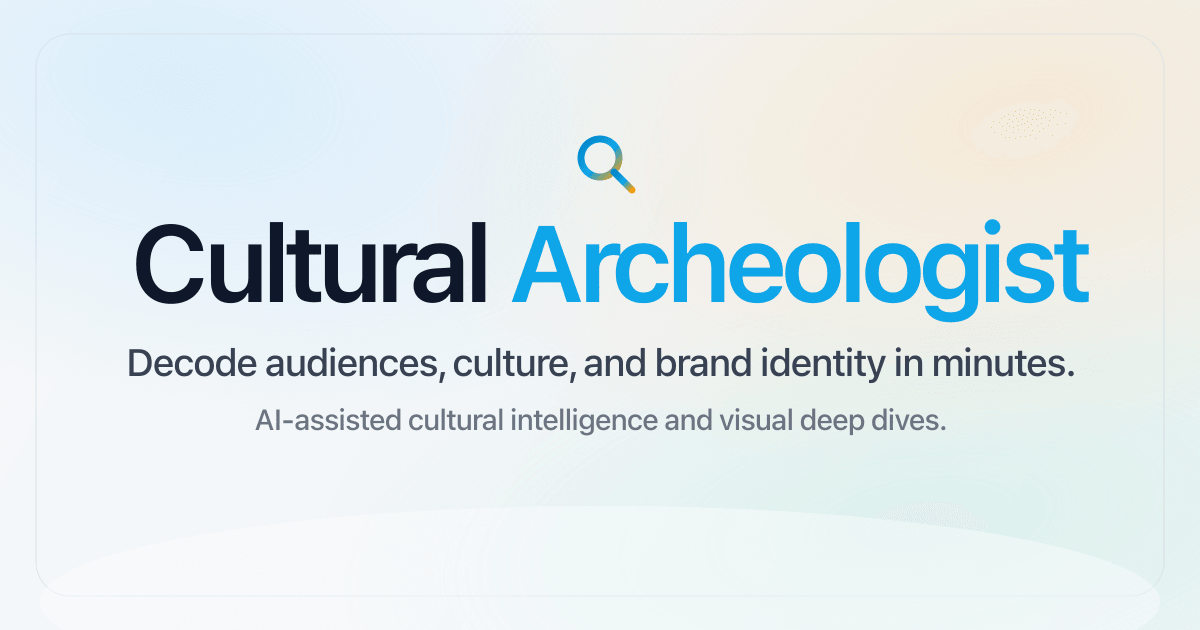
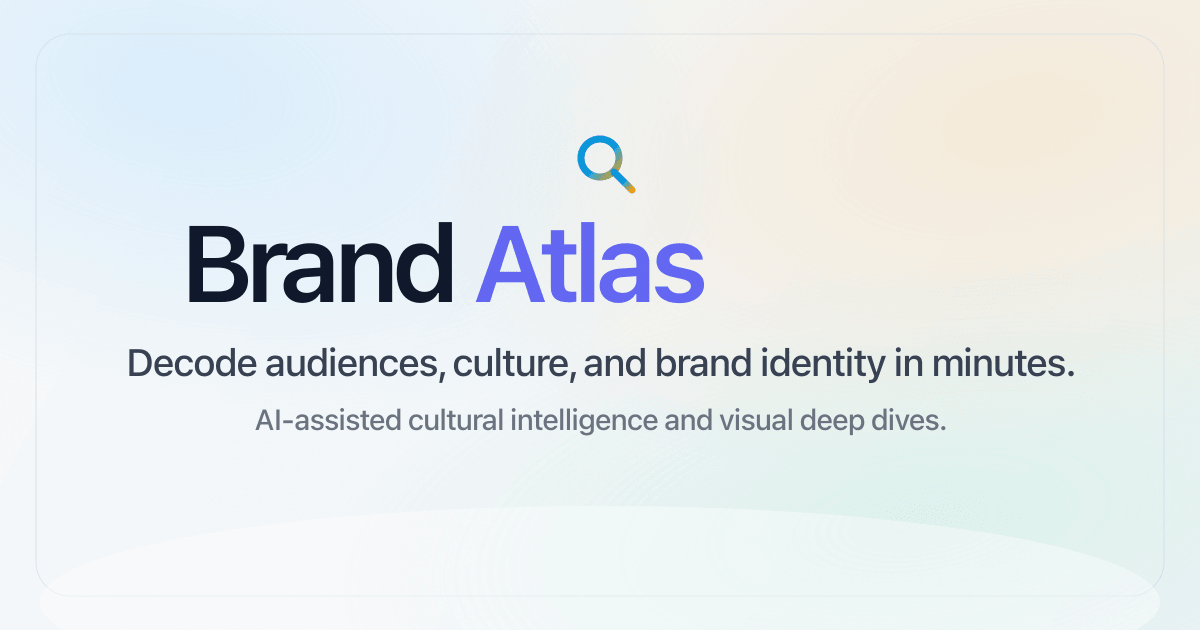
Update branding from "Cultural Archeologist" to "Brand Atlas" in social preview and application components

Changed region(s): [[0.0925, 0.3317, 0.925, 0.5127], [0.4933, 0.2714, 0.5242, 0.3016]]

diff --git a/index.html b/index.html
@@ -7,21 +7,19 @@
     <meta name="description" content="Generate cultural insights and audience analysis in seconds." />
 
     <meta property="og:type" content="website" />
-    <meta property="og:url" content="https://cultural-archeologist.com/" />
-    <meta property="og:site_name" content="Cultural Archeologist" />
-    <meta property="og:title" content="Cultural Archeologist" />
+    <meta property="og:site_name" content="Brand Atlas" />
+    <meta property="og:title" content="Brand Atlas" />
     <meta property="og:description" content="Decode audiences, culture, and brand identity in minutes." />
-    <meta property="og:image" content="https://cultural-archeologist.com/social-preview.png" />
-    <meta property="og:image:secure_url" content="https://cultural-archeologist.com/social-preview.png" />
+    <meta property="og:image" content="/social-preview.png" />
     <meta property="og:image:type" content="image/png" />
     <meta property="og:image:width" content="1200" />
     <meta property="og:image:height" content="630" />
-    <meta property="og:image:alt" content="Cultural Archeologist social preview showing audience, culture, and brand intelligence descriptor" />
+    <meta property="og:image:alt" content="Brand Atlas social preview card" />
 
     <meta name="twitter:card" content="summary_large_image" />
-    <meta name="twitter:title" content="Cultural Archeologist" />
+    <meta name="twitter:title" content="Brand Atlas" />
     <meta name="twitter:description" content="Decode audiences, culture, and brand identity in minutes." />
-    <meta name="twitter:image" content="https://cultural-archeologist.com/social-preview.png" />
+    <meta name="twitter:image" content="/social-preview.png" />
     <script async src="https://www.googletagmanager.com/gtag/js?id=G-B9EV3GQR1J"></script>
     <script>
       window.dataLayer = window.dataLayer || [];

diff --git a/src/App.tsx b/src/App.tsx
@@ -1290,7 +1290,7 @@ export default function App() {
             >
               <Sparkles className="w-7 h-7 text-indigo-600 mb-8" />
               <h1 className="text-5xl md:text-7xl font-semibold tracking-tight text-zinc-950 mb-5 select-none">
-                 Brand <span className="text-transparent bg-clip-text bg-gradient-to-r from-indigo-500 to-fuchsia-500">Archeologist</span>
+                  Brand <span className="text-transparent bg-clip-text bg-gradient-to-r from-indigo-500 to-fuchsia-500">Atlas</span>
               </h1>
               <div className="mt-3 inline-flex items-center gap-2 rounded-full border border-zinc-200/70 bg-white/80 px-3 py-1.5 text-xs font-medium text-zinc-600 shadow-sm">
                 <Loader2 className="w-3.5 h-3.5 animate-spin text-indigo-500" />
@@ -1335,10 +1335,13 @@ export default function App() {
             <div className="w-10 h-10 rounded-xl bg-indigo-100 flex items-center justify-center text-indigo-600 mb-6 mx-auto">
               <Sparkles className="w-5 h-5" />
             </div>
-            <h2 className="text-4xl md:text-5xl font-medium tracking-tight text-zinc-900 mb-4">
+            <h1 className="text-5xl md:text-7xl font-semibold tracking-tight text-zinc-950 mb-4 select-none">
+              Brand <span className="text-transparent bg-clip-text bg-gradient-to-r from-indigo-500 to-fuchsia-500">Atlas</span>
+            </h1>
+            <h2 className="text-xl md:text-2xl font-medium tracking-tight text-zinc-900 mb-3">
               Choose Your Research Experience
             </h2>
-            <p className="text-zinc-500 mb-10 text-lg">
+            <p className="text-zinc-500 mb-10 text-base md:text-lg">
               Start with cultural intelligence or go straight into visual identity analysis.
             </p>
             <div className="grid grid-cols-1 md:grid-cols-2 gap-4">

diff --git a/generate_social_preview.js b/generate_social_preview.js
@@ -25,8 +25,8 @@ out += `<stop offset="0" stop-color="#9AE7C5" stop-opacity="0.22"/>`;
 out += `<stop offset="1" stop-color="#9AE7C5" stop-opacity="0"/>`;
 out += `</radialGradient>\n`;
 out += `<linearGradient id="brandGradient" x1="500" y1="0" x2="1110" y2="0">`;
-out += `<stop offset="0" stop-color="#0EA5E9"/>`;
-out += `<stop offset="1" stop-color="#F59E0B"/>`;
+out += `<stop offset="0" stop-color="#6366F1"/>`;
+out += `<stop offset="1" stop-color="#D946EF"/>`;
 out += `</linearGradient>\n`;
 out += `<linearGradient id="iconGradient" x1="0" y1="0" x2="1" y2="1">`;
 out += `<stop offset="0" stop-color="#0284C7"/>`;
@@ -49,8 +49,8 @@ out += `<circle cx="600" cy="158" r="19" stroke="url(#iconGradient)" stroke-widt
 out += `<line x1="614" y1="172" x2="632" y2="190" stroke="url(#iconGradient)" stroke-width="7" stroke-linecap="round"/>\n`;
 
 // Header copy (main-page look and feel).
-out += `<text x="130" y="302" font-family="${FONT}" font-size="108" font-weight="600" letter-spacing="-2.4" fill="#0F172A">Cultural</text>\n`;
-out += `<text x="508" y="302" font-family="${FONT}" font-size="108" font-weight="600" letter-spacing="-2.4" fill="url(#brandGradient)">Archeologist</text>\n`;
+out += `<text x="180" y="302" font-family="${FONT}" font-size="108" font-weight="600" letter-spacing="-2.4" fill="#0F172A">Brand</text>\n`;
+out += `<text x="472" y="302" font-family="${FONT}" font-size="108" font-weight="600" letter-spacing="-2.4" fill="url(#brandGradient)">Atlas</text>\n`;
 
 // Descriptor text for sharing cards.
 out += `<text x="600" y="376" text-anchor="middle" font-family="${FONT}" font-size="38" font-weight="540" fill="#374151">Decode audiences, culture, and brand identity in minutes.</text>\n`;
